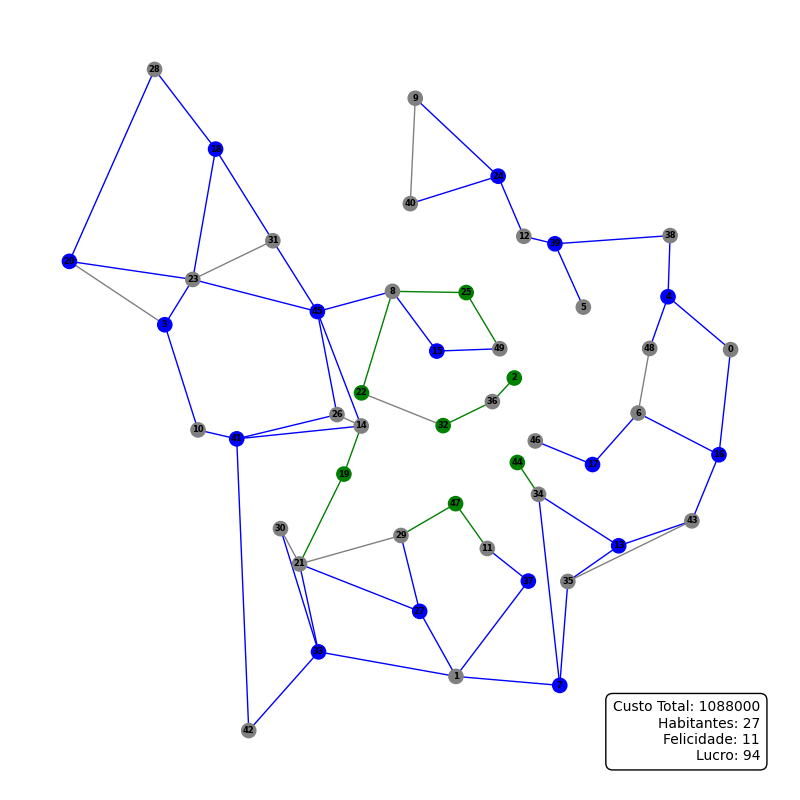
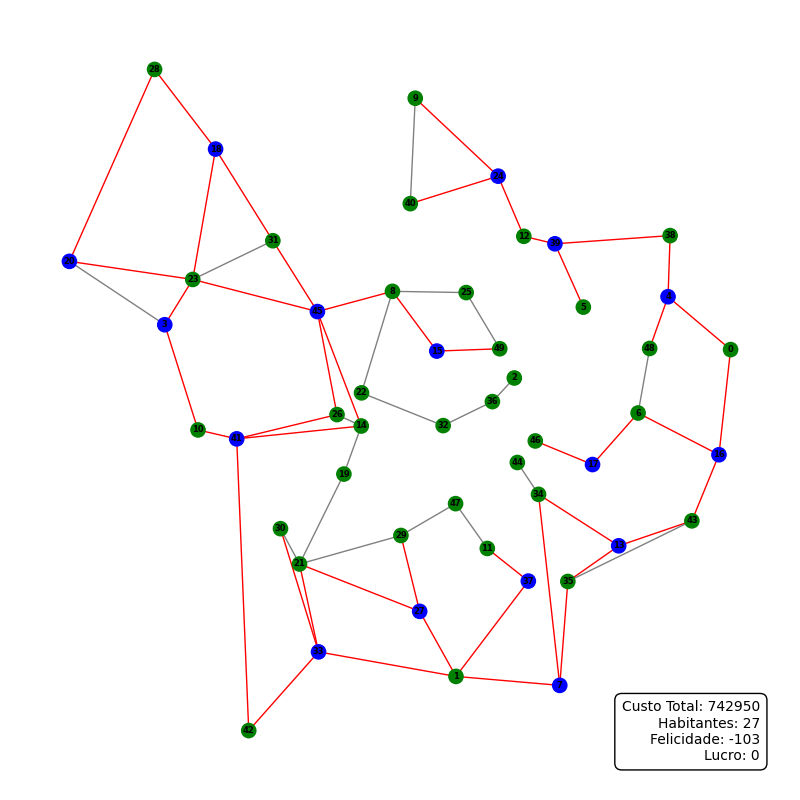
implementado tabu search

diff --git a/Operational Research/Integer Optimization/script.py b/Operational Research/Integer Optimization/script.py
@@ -78,6 +78,91 @@ def plot_graph(graph: Graph, position: array, node_colors: list, edge_colors: li
     savefig(output_filename)
     show()
 
+def calculate_diversity(solution, tabu_list):
+    diversity_penalty = 0
+    for tabu_solution in tabu_list:
+        difference_count = sum(1 for i in range(len(solution)) if solution[i] != tabu_solution[i])
+        diversity_penalty += difference_count * 10
+    return diversity_penalty
+
+def tabu_search(A, N, initial_solution, iterations=100000, tenure=10, diversity_factor=3):
+    best_solution = initial_solution
+    best_cost, _, _ = calculate_cost(A, best_solution)
+    tabu_list = [best_solution]  
+    current_solution = best_solution
+    prev_best_cost = best_cost  
+
+    for _ in range(iterations):
+        neighbors = get_neighbors(current_solution, N)
+        best_neighbor = None
+        best_neighbor_cost = float('inf')
+
+        for neighbor in neighbors:
+            if neighbor not in tabu_list:
+                neighbor_cost, _, _ = calculate_cost(A, neighbor) 
+                
+                diversity_penalty = calculate_diversity(neighbor, tabu_list) * diversity_factor
+                neighbor_cost += diversity_penalty 
+
+                if neighbor_cost < best_neighbor_cost:
+                    best_neighbor_cost = neighbor_cost
+                    best_neighbor = neighbor
+        
+        if best_neighbor:
+            current_solution = best_neighbor
+            tabu_list.append(current_solution)
+            if len(tabu_list) > tenure:
+                tabu_list.pop(0)
+
+        if best_neighbor_cost < prev_best_cost:
+            break  
+
+        if best_neighbor_cost < best_cost:
+            best_cost = best_neighbor_cost
+            best_solution = current_solution
+            prev_best_cost = best_cost  
+
+    return best_solution, best_cost
+
+def calculate_cost(A, solution):
+    total_cost = 0
+    happiness = 0
+    inhabitants = 0
+    park_factory_connections = 0
+
+    for i in range(len(solution)):
+        if solution[i] == "Casa":
+            total_cost += VERTEX_COSTS["Casa"]
+            inhabitants += 1
+        elif solution[i] == "Parque":
+            total_cost += VERTEX_COSTS["Parque"]
+            happiness += 1
+        elif solution[i] == "Fábrica":
+            total_cost += VERTEX_COSTS["Fábrica"]
+            happiness -= 1
+
+    for i in range(len(A)):
+        for j in range(len(A)):
+            if A[i][j] == 1.0 and solution[i] == "Parque" and solution[j] == "Fábrica":
+                park_factory_connections += 1
+
+    happiness -= park_factory_connections * 2  
+
+    return total_cost, happiness, inhabitants
+
+def get_neighbors(solution, N):
+    neighbors = []
+    for i in range(N):
+        new_solution = solution[:]
+        if solution[i] == "Casa":
+            new_solution[i] = "Parque"
+        elif solution[i] == "Parque":
+            new_solution[i] = "Fábrica"
+        else:
+            new_solution[i] = "Casa"
+        neighbors.append(new_solution)
+    return neighbors
+
 if __name__ == "__main__":
     MATRIX_FILENAME = 'problem.txt'
     POSITIONS_FILENAME = 'positions.txt'
@@ -89,6 +174,7 @@ if __name__ == "__main__":
     happiness = 0
     inhabitants = 0
     total_cost = 0
+    profit = 0
 
     model = LpProblem("Plano Diretor da Cidade", LpMaximize)
 
@@ -119,42 +205,44 @@ if __name__ == "__main__":
 
     model += F >= 0
     model += L >= 0
+    model += happiness >= 0
+    model += profit >= 0
 
     model.solve()
 
-solution = {}
-for i in range(N):
-    if x_C[i].varValue == 1.0:
-        solution[i] = "Casa"
-        total_cost += VERTEX_COSTS["Casa"]
-        inhabitants += 1
-    elif x_P[i].varValue == 1.0:
-        solution[i] = "Parque"
-        total_cost += VERTEX_COSTS["Parque"]
-        happiness += 1
-    elif x_F[i].varValue == 1.0:
-        solution[i] = "Fábrica"
-        total_cost += VERTEX_COSTS["Fábrica"]
-        happiness += -1
+    solution = {}
+    for i in range(N):
+        if x_C[i].varValue == 1.0:
+            solution[i] = "Casa"
+            total_cost += VERTEX_COSTS["Casa"]
+            inhabitants += 1
+        elif x_P[i].varValue == 1.0:
+            solution[i] = "Parque"
+            total_cost += VERTEX_COSTS["Parque"]
+            happiness += 1
+        elif x_F[i].varValue == 1.0:
+            solution[i] = "Fábrica"
+            total_cost += VERTEX_COSTS["Fábrica"]
+            happiness -= 1
 
-graph, profit, happiness, pos, edge_colors, node_colors = create_graph(
-    A, positions, [solution[i] for i in range(N)], happiness
-)
+    initial_solution = [solution[i] for i in range(N)]
+    best_solution, best_cost = tabu_search(A, N, initial_solution)
 
-makedirs('results', exist_ok=True)
-plot_graph(graph, pos, node_colors, edge_colors, total_cost, inhabitants, happiness, profit)
+    graph, profit, happiness, pos, edge_colors, node_colors = create_graph(
+        A, positions, best_solution, happiness
+    )
 
-try:
-    with open(OUTPUT_FILENAME, 'w') as file:
-        file.write("Solucao Otima:\n")
-        for node, structure in solution.items():
-            file.write(f"Vertice {node + 1}: {structure}\n")
-        file.write(f"\nCusto Total: {total_cost}\n")
-        file.write(f"Numero de Habitantes: {inhabitants}\n")
-        file.write(f"Nivel de Felicidade: {happiness}\n")
-        file.write(f"Lucro Total: {profit}\n")    
-        file.write(f"Valor de L: {L.value()}\n")
-        file.write(f"Valor de F: {F.value()}\n")
-    print(f"Solução salva em '{OUTPUT_FILENAME}'.")
-except Exception as e:
-    print(f"Erro ao salvar a solução: {e}")
+    makedirs('results', exist_ok=True)
+    plot_graph(graph, pos, node_colors, edge_colors, best_cost, inhabitants, happiness, profit)
+
+    try:
+        with open(OUTPUT_FILENAME, 'w') as file:
+            file.write("Solução Ótima:\n")
+            for node, structure in enumerate(best_solution):
+                file.write(f"Vértice {node + 1}: {structure}\n")
+            file.write(f"\nCusto Total: {best_cost}\n")
+            file.write(f"Numero de Habitantes: {inhabitants}\n")
+            file.write(f"Felicidade: {happiness}\n")
+            file.write(f"Lucro: {profit}\n")
+    except Exception as e:
+        print(f"Erro ao salvar a solução: {e}")
